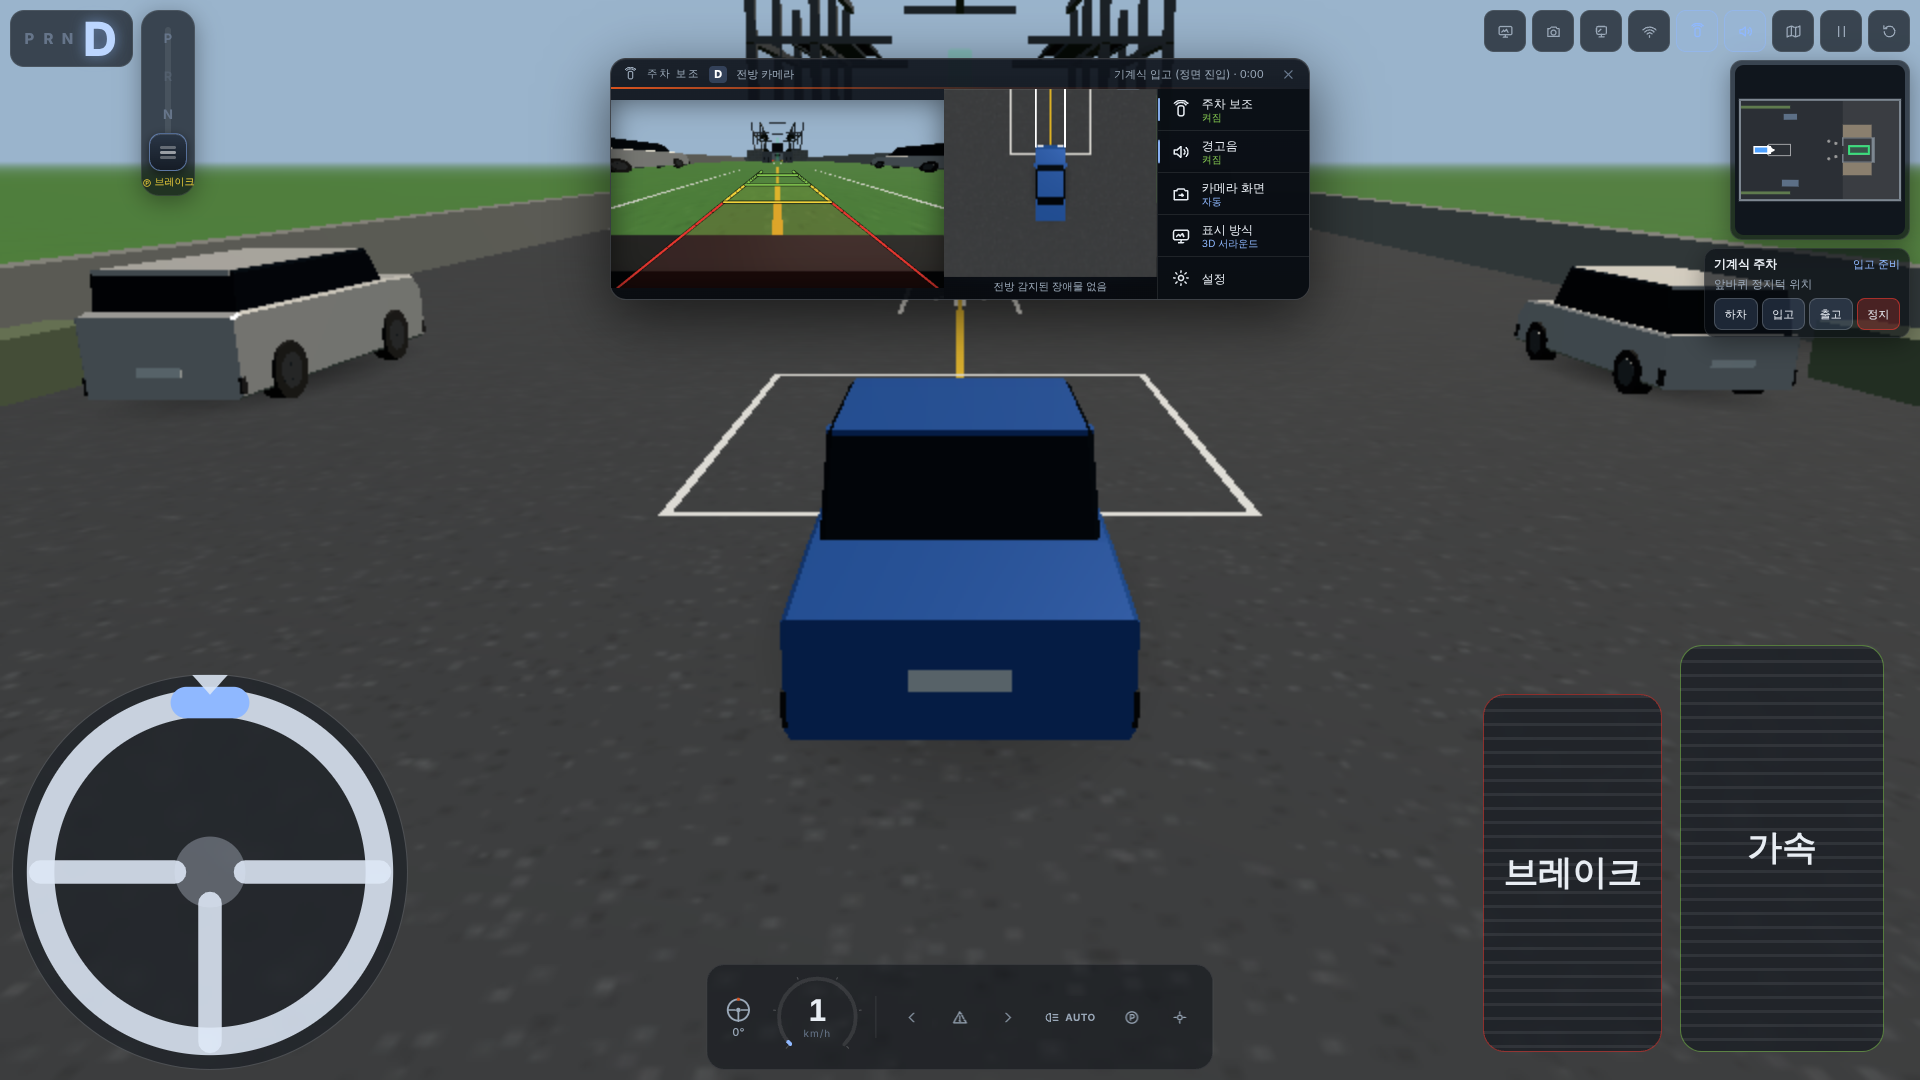
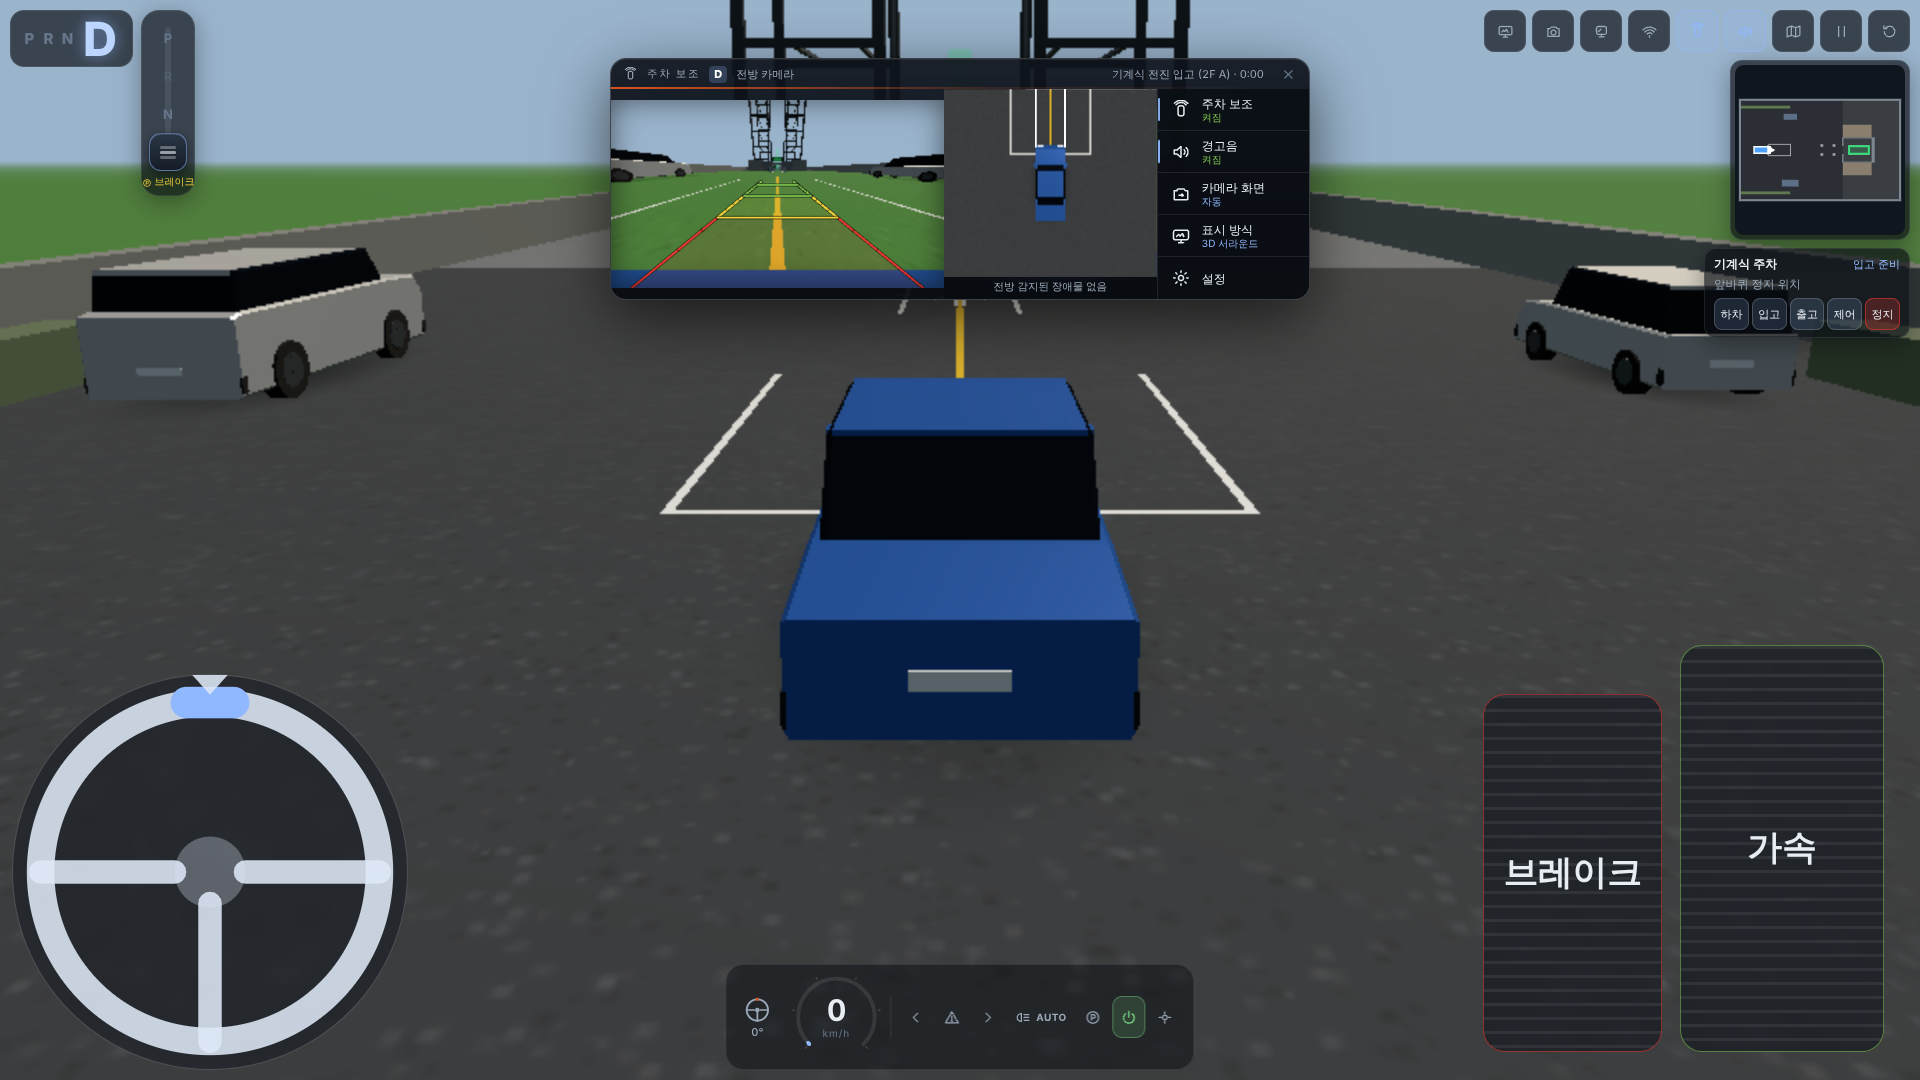
fix(UI): 시동 버튼 추가로 넓어진 클러스터가 터치 핸들/미션 패널과 겹치는 문제 수정, 낮은 화면은 주차 현황 한 줄만
Claude-Session: https://claude.ai/code/session_01VPQddkbM3BCLy477FXgEB3

diff --git a/src/style.css b/src/style.css
@@ -409,3 +409,13 @@ kbd { background: rgba(255, 255, 255, 0.08); border: 1px solid var(--hair-2); bo
 .mctl-sel { font-size: 11.5px; color: var(--txt-2); line-height: 1.4; }
 .mctl-side .estop { background: rgba(229, 55, 47, .25); border-color: rgba(229, 55, 47, .6); }
 @media (max-height: 420px) { .mctl-body { grid-template-columns: 1fr 150px; } .mctl-grid { max-height: 56vh; } #mech-ctl { padding: 6px 8px; } }
+
+/* v0.5.3: 시동 버튼은 문자 라벨 없이 아이콘 + 색(ON=초록, 시동 중=깜박임)으로 상태를 표시 — 클러스터 폭 증가로 터치 핸들과 겹치지 않게 */
+#actionbar .ab[data-a="engineToggle"] .t { display: none; }
+#actionbar .ab[data-a="engineToggle"].on { color: #7fe08a; background: rgba(127, 224, 138, .14); border-color: rgba(127, 224, 138, .4); }
+#actionbar .ab[data-a="engineToggle"][data-engine="STARTING"], #actionbar .ab[data-a="engineToggle"][data-engine="STOPPING"] { color: var(--warn); animation: engblink .5s steps(2) infinite; }
+@keyframes engblink { 50% { opacity: .45; } }
+/* 낮은 화면: 주차 현황 요약 한 줄만 (추천 문구는 숨김) — 미션 패널이 터치 핸들과 겹치지 않게 */
+@media (max-height: 600px) { .mc-park span { display: none; } }
+/* v0.5.3: 필수 조작 버튼이 7개로 늘어(시동 추가) 클러스터를 조금 촘촘하게 — 터치 핸들과 겹치지 않게 */
+@media (min-height: 481px) { #cluster { gap: 8px; } #actionbar { gap: 3px; padding-left: 8px; } #actionbar .ab { min-width: 33px; padding: 0 6px; } #actionbar .ab[data-a="headlights"] { padding: 0 6px; } }
